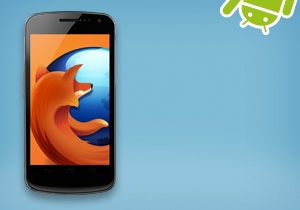
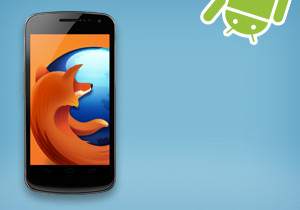
Last minute android promo change for Bug 763314

Changed region(s): [[0.66, 0.0, 0.99, 0.2286]]

diff --git a/media/css/tabzilla.css b/media/css/tabzilla.css
@@ -331,8 +331,9 @@
     background-position: 0 0;
     background-color: #69acc7;
     color: #fff;
-    font-size: 11px;
-    padding: 50px 15px 30px 140px;
+    font-size: 12px;
+    padding: 40px 12px 30px 140px;
+    height: 140px;
     line-height: 20px;
     text-shadow: none;
 }
@@ -340,11 +341,12 @@
 #tabzilla-promo .snippet#tabzilla-promo-mobile a h4 {
     color: #fff;
     text-transform: none;
-    font-size: 26px;
+    font-size: 32px;
     letter-spacing: -1px;
     font-family: 'Open Sans Light';
     font-weight: normal;
     text-shadow: none;
+    width: 100px;
 }
 
 @media only screen and (min-width: 720px) and (max-width: 979px) {

diff --git a/media/js/tabzilla.js b/media/js/tabzilla.js
@@ -530,8 +530,8 @@ Tabzilla.content =
     + '  <div id="tabzilla-promo">'
     + '    <div class="snippet" id="tabzilla-promo-mobile">'
     + '    <a href="http://www.mozilla.org/firefox/fx/?WT.mc_id=tzfxmobile&amp;WT.mc_ev=click#mobile">'
-    + '     <h4>Big ideals. Small screen.</h4>'
-    + '     <p>Downlaod Firefox for Android and put the power of the Web in your hands.</p></a>'
+    + '     <h4>Fast. Smart. Safe.</h4>'
+    + '     <p>Get Firefox for Android »</p></a>'
     + '    </div>'
     + '  </div>'
     + '  <div id="tabzilla-nav">'
